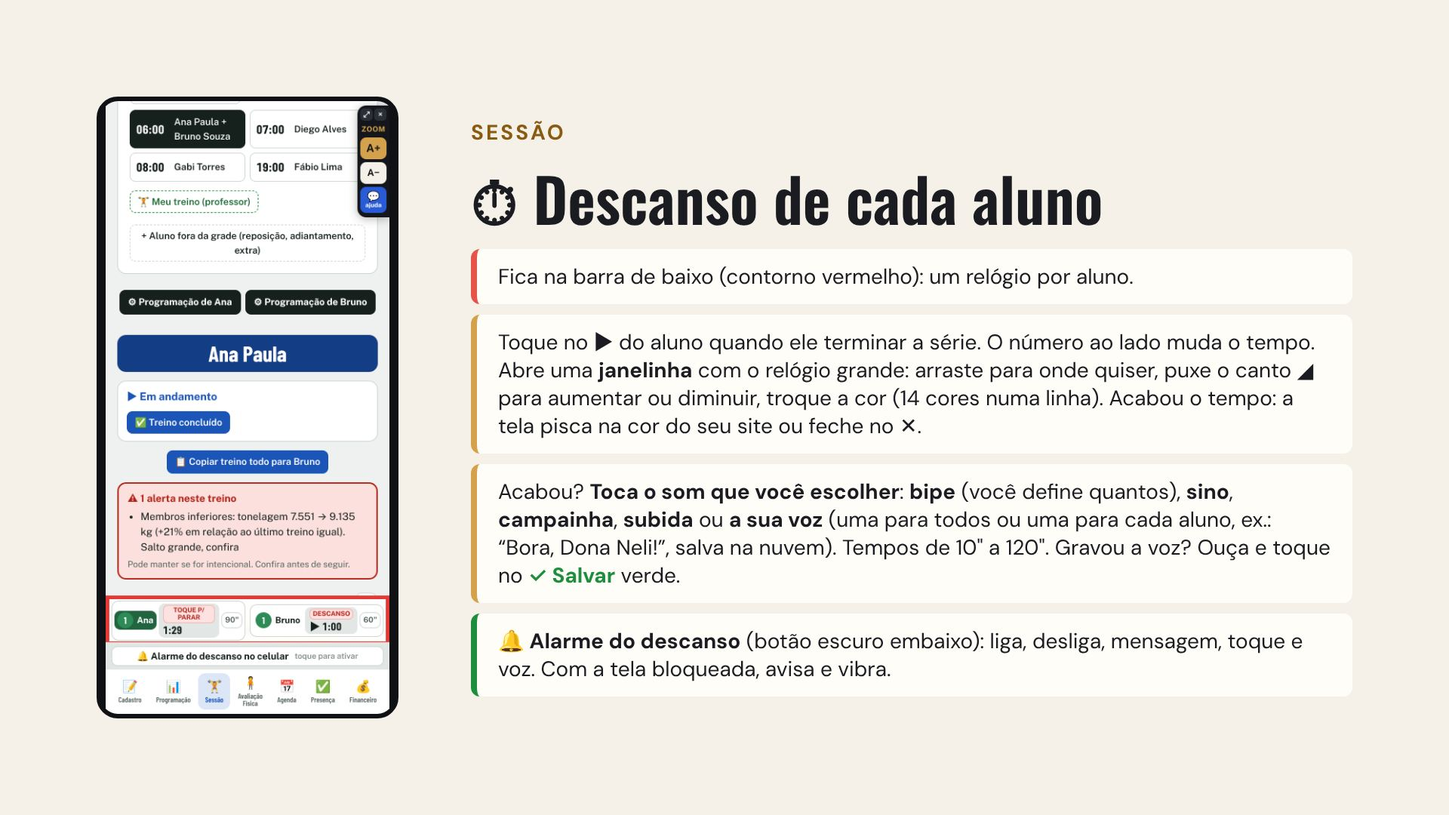
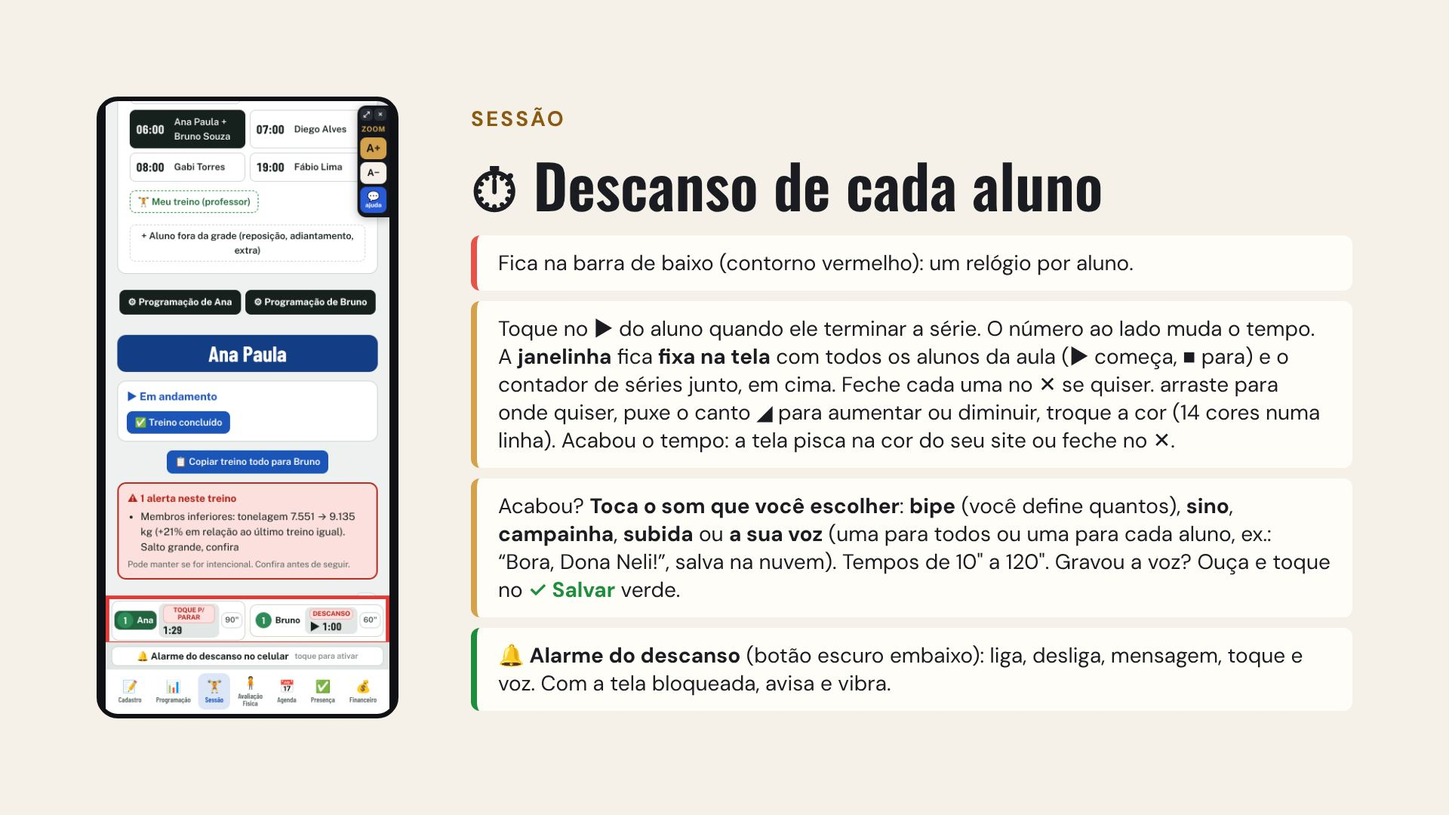
Descanso e contador de séries fixos na tela: todos os alunos da aula com ▶/■, fecha cada um no ✕ e fica lembrado; slides atualizados
Claude-Session: https://claude.ai/code/session_01ExiWmKxJX9TgZX8HbSZjPY

diff --git a/index.html b/index.html
@@ -1,4 +1,4 @@
-<!doctype html><html><head><meta charset=utf8><link rel="manifest" href="manifest.webmanifest"><meta name="theme-color" content="#0f1115"><link rel="icon" href="icon-192.png"><link rel="apple-touch-icon" href="icon-192.png"><meta name="apple-mobile-web-app-capable" content="yes"><meta name="mobile-web-app-capable" content="yes"><meta name="apple-mobile-web-app-title" content="Rotina do Personal"><meta name=viewport content="width=device-width,initial-scale=1,viewport-fit=cover"><style>:root{color-scheme:light;box-sizing:border-box;padding-top:env(safe-area-inset-top,0px);padding-bottom:env(safe-area-inset-bottom,0px)}html{scroll-padding-top:env(safe-area-inset-top,0px)}body{margin:0;padding:0;font:14px -apple-system,BlinkMacSystemFont,sans-serif;background:#faf9f5;color:#141413}img{max-width:100%}[hidden]:not([hidden=until-found i]){display:none!important}</style><script>window.RP_BUILD="1793269921";
+<!doctype html><html><head><meta charset=utf8><link rel="manifest" href="manifest.webmanifest"><meta name="theme-color" content="#0f1115"><link rel="icon" href="icon-192.png"><link rel="apple-touch-icon" href="icon-192.png"><meta name="apple-mobile-web-app-capable" content="yes"><meta name="mobile-web-app-capable" content="yes"><meta name="apple-mobile-web-app-title" content="Rotina do Personal"><meta name=viewport content="width=device-width,initial-scale=1,viewport-fit=cover"><style>:root{color-scheme:light;box-sizing:border-box;padding-top:env(safe-area-inset-top,0px);padding-bottom:env(safe-area-inset-bottom,0px)}html{scroll-padding-top:env(safe-area-inset-top,0px)}body{margin:0;padding:0;font:14px -apple-system,BlinkMacSystemFont,sans-serif;background:#faf9f5;color:#141413}img{max-width:100%}[hidden]:not([hidden=until-found i]){display:none!important}</style><script>window.RP_BUILD="1793270514";
 (function(){ var K="rp_upd_try";
   var T0=Date.now(); function chk(){ try{ fetch(location.pathname+"?v="+Date.now(),{cache:"no-store"}).then(function(r){ return r.text(); }).then(function(t){ var m=t.match(/window\.RP_BUILD="(\d+)"/); if(!m||m[1]===window.RP_BUILD) return;
       var tried=sessionStorage.getItem(K); if(Date.now()-T0<15000&&tried!==m[1]){ sessionStorage.setItem(K,m[1]); go(m[1]); return; } showUpd(m[1]); }).catch(function(){}); }catch(e){} }
@@ -333,7 +333,7 @@ input.mini{padding:5px;text-align:center}
 .xb-sug{white-space:nowrap}.xband .xb-ex2{grid-column:2 / -1;display:flex!important;gap:6px;justify-content:center;align-items:center;flex-wrap:wrap}.xb-ex2 .xb-sug{font-size:11px!important;padding:3px 9px!important}.xrepw{display:flex;margin:1px 0 0 4px}.xrepw:empty{display:none}.xrepw .xrep{font-size:10px!important;padding:1px 8px!important}.repask{position:relative;margin:10px 0 14px;padding:14px;border:2.5px solid var(--accent);border-radius:16px;background:var(--accent-soft);display:grid;gap:8px;text-align:center}.repask:after{content:"";position:absolute;left:50%;bottom:-12px;transform:translateX(-50%);border:10px solid transparent;border-top-color:var(--accent);border-bottom:0}
 #repPop[hidden]{display:none}.repscrim{position:fixed;inset:0;background:rgba(0,0,0,.45);z-index:9000}.reppop{position:fixed!important;left:50%;top:50%;transform:translate(-50%,-50%);width:min(560px,calc(100vw - 24px));max-height:calc(100vh - 40px);overflow:auto;margin:0!important;z-index:9001;background:var(--surface)!important;box-shadow:0 12px 40px rgba(0,0,0,.35);animation:reppop .22s ease-out}.reppop:after{display:none}@keyframes reppop{from{opacity:0;transform:translate(-50%,-46%)}to{opacity:1;transform:translate(-50%,-50%)}}.repx{position:absolute;right:8px;top:8px}.repwarn{background:var(--warn-soft);color:var(--fg);border-radius:10px;padding:6px 8px;font-size:13.5px}.repmode{display:flex;flex-wrap:wrap;gap:6px;justify-content:center;align-items:center;font-size:13px;font-weight:700;color:var(--muted);border-top:1px dashed var(--line);padding-top:8px}
 .xband.xband3{display:block!important}.xb3{display:flex!important;flex-wrap:nowrap!important;gap:5px!important;padding:5px 6px!important;justify-content:center;border-left:0!important}.xb3 .xb-sug{flex:1 1 0;min-width:0;max-width:200px;white-space:normal!important;line-height:1.15;font-size:10.5px!important;padding:4px 6px!important;text-align:center}
-:is(#restWin,#serWin){--rwk:1;position:fixed;right:22px;bottom:190px;z-index:8500;min-width:calc(150px*var(--rwk));max-width:calc(300px*var(--rwk));background:var(--rwbg);color:var(--rwfg);border-radius:16px;box-shadow:0 8px 28px rgba(0,0,0,.35);border:2px solid rgba(127,127,127,.45);padding:6px 10px 8px;touch-action:none;user-select:none;cursor:grab}#restWin[hidden],#serWin[hidden]{display:none}:is(#restWin,#serWin).drag{opacity:.85;cursor:grabbing}:is(#restWin,#serWin) .rwh{display:flex;align-items:center;gap:6px;font-size:11px;font-weight:800;text-transform:uppercase;letter-spacing:.06em;opacity:.85}:is(#restWin,#serWin) .rwh span:nth-child(2){flex:1}:is(#restWin,#serWin) .rwg{font-size:15px}:is(#restWin,#serWin) button{background:none;border:0;color:inherit;cursor:pointer;font:inherit}:is(#restWin,#serWin) .rwx{font-size:16px;padding:2px 4px}:is(#restWin,#serWin) .rwr{display:flex;align-items:center;gap:6px;margin-top:2px}:is(#restWin,#serWin) .rwn{font-size:calc(13px*var(--rwk));font-weight:700;flex:1;min-width:0;overflow:hidden;text-overflow:ellipsis;white-space:nowrap}:is(#restWin,#serWin) .rwt{font-size:calc(34px*var(--rwk));font-weight:900;line-height:1.05}:is(#restWin,#serWin) .rwr.go .rwt{animation:rwpulse .6s ease-in-out infinite alternate}@keyframes rwpulse{to{opacity:.35}}:is(#restWin,#serWin) .rwrs{position:absolute;right:-6px;bottom:-6px;width:30px;height:30px;border-radius:0 0 14px 0;cursor:nwse-resize;touch-action:none;background:linear-gradient(135deg,transparent 0 46%,var(--rwfg) 46% 52%,transparent 52% 62%,var(--rwfg) 62% 68%,transparent 68% 78%,var(--rwfg) 78% 84%,transparent 84%);opacity:.75;filter:drop-shadow(0 0 1px rgba(0,0,0,.5))}:is(#restWin,#serWin).rsz{outline:2px dashed var(--rwfg);outline-offset:3px}:is(#restWin,#serWin) .rwa{position:absolute;top:50%;transform:translateY(-50%);width:22px;height:44px;border-radius:10px!important;background:var(--rwbg)!important;border:2px solid rgba(127,127,127,.55)!important;font-size:12px!important;display:flex;align-items:center;justify-content:center;box-shadow:0 2px 8px rgba(0,0,0,.25)}:is(#restWin,#serWin) .rwa-l{left:-16px}:is(#restWin,#serWin) .rwa-r{right:-16px}:is(#restWin,#serWin) .rws{font-size:calc(16px*var(--rwk));opacity:.8}:is(#restWin,#serWin) .rwc{display:flex;flex-wrap:nowrap;gap:4px;justify-content:center;margin-top:6px;overflow-x:auto;max-width:100%;scrollbar-width:none}:is(#restWin,#serWin) .rwc button{flex:0 0 auto;width:16px;height:16px;border-radius:50%;border:2px solid rgba(127,127,127,.6);padding:0}:is(#restWin,#serWin) .rwc button.on{outline:2px solid var(--rwfg);outline-offset:2px}
+:is(#restWin,#serWin){--rwk:1;position:fixed;right:22px;bottom:190px;z-index:8500;min-width:calc(150px*var(--rwk));max-width:calc(300px*var(--rwk));background:var(--rwbg);color:var(--rwfg);border-radius:16px;box-shadow:0 8px 28px rgba(0,0,0,.35);border:2px solid rgba(127,127,127,.45);padding:6px 10px 8px;touch-action:none;user-select:none;cursor:grab}#restWin[hidden],#serWin[hidden]{display:none}:is(#restWin,#serWin).drag{opacity:.85;cursor:grabbing}:is(#restWin,#serWin) .rwh{display:flex;align-items:center;gap:6px;font-size:11px;font-weight:800;text-transform:uppercase;letter-spacing:.06em;opacity:.85}:is(#restWin,#serWin) .rwh span:nth-child(2){flex:1}:is(#restWin,#serWin) .rwg{font-size:15px}:is(#restWin,#serWin) button{background:none;border:0;color:inherit;cursor:pointer;font:inherit}body.tab-sessao #restWin{bottom:calc(300px + env(safe-area-inset-bottom,0px))}:is(#restWin,#serWin) .rwidle .rwt{opacity:.75}#restWin .rwgo{font-size:calc(22px*var(--rwk))!important;width:calc(40px*var(--rwk));height:calc(40px*var(--rwk));border-radius:50%!important;border:2px solid currentColor!important;display:flex;align-items:center;justify-content:center}:is(#restWin,#serWin) .rwx{font-size:16px;padding:2px 4px}:is(#restWin,#serWin) .rwr{display:flex;align-items:center;gap:6px;margin-top:2px}:is(#restWin,#serWin) .rwn{font-size:calc(13px*var(--rwk));font-weight:700;flex:1;min-width:0;overflow:hidden;text-overflow:ellipsis;white-space:nowrap}:is(#restWin,#serWin) .rwt{font-size:calc(34px*var(--rwk));font-weight:900;line-height:1.05}:is(#restWin,#serWin) .rwr.go .rwt{animation:rwpulse .6s ease-in-out infinite alternate}@keyframes rwpulse{to{opacity:.35}}:is(#restWin,#serWin) .rwrs{position:absolute;right:-6px;bottom:-6px;width:30px;height:30px;border-radius:0 0 14px 0;cursor:nwse-resize;touch-action:none;background:linear-gradient(135deg,transparent 0 46%,var(--rwfg) 46% 52%,transparent 52% 62%,var(--rwfg) 62% 68%,transparent 68% 78%,var(--rwfg) 78% 84%,transparent 84%);opacity:.75;filter:drop-shadow(0 0 1px rgba(0,0,0,.5))}:is(#restWin,#serWin).rsz{outline:2px dashed var(--rwfg);outline-offset:3px}:is(#restWin,#serWin) .rwa{position:absolute;top:50%;transform:translateY(-50%);width:22px;height:44px;border-radius:10px!important;background:var(--rwbg)!important;border:2px solid rgba(127,127,127,.55)!important;font-size:12px!important;display:flex;align-items:center;justify-content:center;box-shadow:0 2px 8px rgba(0,0,0,.25)}:is(#restWin,#serWin) .rwa-l{left:-16px}:is(#restWin,#serWin) .rwa-r{right:-16px}:is(#restWin,#serWin) .rws{font-size:calc(16px*var(--rwk));opacity:.8}:is(#restWin,#serWin) .rwc{display:flex;flex-wrap:nowrap;gap:4px;justify-content:center;margin-top:6px;overflow-x:auto;max-width:100%;scrollbar-width:none}:is(#restWin,#serWin) .rwc button{flex:0 0 auto;width:16px;height:16px;border-radius:50%;border:2px solid rgba(127,127,127,.6);padding:0}:is(#restWin,#serWin) .rwc button.on{outline:2px solid var(--rwfg);outline-offset:2px}
 .sndnow{display:flex;align-items:center;justify-content:space-between;gap:8px;background:var(--ok-soft);border:2px solid var(--ok);border-radius:12px;padding:8px 10px}.sndnow span{display:grid;font-size:12px;color:var(--muted);font-weight:700}.sndnow b{font-size:16px;color:var(--fg)}.sndpl{font-style:normal;font-size:10px;opacity:.7;margin-left:2px}
 .tdays{margin:-2px 0 10px}.tdays .daychips{margin:0}.unit.xrepu{border:2.5px solid #E8710A!important;background:#FFF1E3!important;color:#5a2d00}.unit.xrepu.on{background:#E8710A!important;color:#fff}.unit.xrepu .xtag{background:#E8710A;color:#fff}.dyrep{position:absolute;top:-8px;right:-4px;font-style:normal;font-size:11px;background:#E8710A;color:#fff;border-radius:999px;padding:0 4px;line-height:16px}.daychips button{position:relative}
 .rep-2c{display:grid;gap:10px;align-items:start}.rep-colB{display:grid;gap:10px}.repcard.cap{width:680px!important;max-width:none!important}.repcard.cap .rep-2c:not(.one){grid-template-columns:1.15fr 1fr}@media (min-width:640px){.rep-2c:not(.one){grid-template-columns:1.15fr 1fr}}
@@ -3595,7 +3595,8 @@ setInterval(restTick,250);
 const RW_COR={preto:["#111418","#fff"],marrom:["#6D4C41","#fff"],cinza:["#6B7280","#fff"],roxo:["#7B3FC4","#fff"],azul:["#1E63D6","#fff"],verde:["#1E8E3E","#fff"],vermelho:["#D32F2F","#fff"],turquesa:["#00A99D","#fff"],rosa:["#EC407A","#fff"],laranja:["#F57C00","#fff"],azulclaro:["#9FD3FF","#111"],rosaclaro:["#F8BBD0","#111"],amarelo:["#FFE45C","#111"],branco:["#FFFFFF","#111"]};
 const rwOn=()=>(S.brand||{}).restWin!==false; const rwCor=()=>{ const b=S.brand||{}; return b.restWinCor==="x"&&b.restWinX? "x" : RW_COR[b.restWinCor]? b.restWinCor : "preto"; };
 const rwPair=(k,x)=> k==="x"&&x? [x,cpInk(x)] : RW_COR[k]||RW_COR.preto;
-let RW_X=false, RW_DRAG=null, RW_RS=null;
+let RW_X=(()=>{ try{ return localStorage.getItem("rp_rw_x")==="1"; }catch(_){ return false; } })(), RW_DRAG=null, RW_RS=null;
+const rwXset=v=>{ RW_X=v; try{ localStorage.setItem("rp_rw_x",v?"1":"0"); }catch(_){} };
 function rwSz(){ try{ return parseFloat(localStorage.getItem("rp_rw_sz"))||1; }catch(_){ return 1; } }
 function rwPos(){ try{ return JSON.parse(localStorage.getItem("rp_rw_pos")||"null"); }catch(_){ return null; } }
 function rwEl(){ let el=document.getElementById("restWin"); if(!el){ el=document.createElement("div"); el.id="restWin"; el.setAttribute("role","timer"); document.body.appendChild(el);
@@ -3604,22 +3605,23 @@ function rwEl(){ let el=document.getElementById("restWin"); if(!el){ el=document
     const end=()=>{ if(RW_RS){ RW_RS=null; el.classList.remove("rsz"); const z=parseFloat(document.body.style.zoom)||1; const L=parseFloat(el.style.left), T=parseFloat(el.style.top); if(!isNaN(L)){ el.style.left=Math.max(4,Math.min(innerWidth/z-el.offsetWidth-4,L))+"px"; el.style.top=Math.max(4,Math.min(innerHeight/z-el.offsetHeight-4,T))+"px"; } return; } if(!RW_DRAG) return; RW_DRAG=null; el.classList.remove("drag"); try{ localStorage.setItem("rp_rw_pos",JSON.stringify({x:parseFloat(el.style.left),y:parseFloat(el.style.top)})); }catch(_){} };
     el.addEventListener("pointerup",end); el.addEventListener("pointercancel",end);
     el.addEventListener("click",e=>{ const b=e.target.closest("button"); if(!b) return;
-      if(b.hasAttribute("data-rwx")){ RW_X=true; rwRender(); return; }
+      if(b.hasAttribute("data-rwx")){ rwXset(true); rwRender(); try{ renderTurnbar(); }catch(_){} toast("Janelinha fechada. Toque no ▶ do descanso lá embaixo para abrir de novo."); return; }
       if(b.dataset.rwsz){ const v=Math.max(0.7,Math.min(2.2,Math.round((rwSz()+(+b.dataset.rwsz)*0.15)*100)/100)); try{ localStorage.setItem("rp_rw_sz",v); }catch(_){} el.style.setProperty("--rwk",v);
         const z=parseFloat(document.body.style.zoom)||1; const L=parseFloat(el.style.left), T=parseFloat(el.style.top); if(!isNaN(L)){ el.style.left=Math.max(4,Math.min(innerWidth/z-el.offsetWidth-4,L))+"px"; el.style.top=Math.max(4,Math.min(innerHeight/z-el.offsetHeight-4,T))+"px"; } return; }
       if(b.dataset.rwcor){ S.brand=Object.assign({},S.brand||{},{restWinCor:b.dataset.rwcor}); save(); rwRender(); return; }
+      if(b.dataset.rwgo){ const id=b.dataset.rwgo, m=S.students.find(x=>x.id===id); try{ AC=AC||new (window.AudioContext||window.webkitAudioContext)(); if(AC.state==="suspended") AC.resume(); }catch(_){} REST[id]=Date.now()+restSec(m)*1000; delete FIRED[id]; keepAwake(); autoPres(id); renderTurnbar(); rwRender(); return; }
       if(b.dataset.rwstop){ const id=b.dataset.rwstop; delete REST[id]; delete FIRED[id]; renderTurnbar(); rwRender(); } });
     const p=rwPos(); if(p){ el.style.left=Math.max(4,Math.min(innerWidth-170,p.x))+"px"; el.style.top=Math.max(4,Math.min(innerHeight-120,p.y))+"px"; el.style.right="auto"; el.style.bottom="auto"; } }
   return el; }
-function rwRender(){ const ids=Object.keys(REST); const el=rwEl(); const show=rwOn()&&!RW_X&&ids.length>0&&CUR_TAB==="sessao";
+function rwRender(){ let ms=[]; try{ ms=sesMembers(); }catch(_){} const ids=[...new Set(ms.map(m=>m.id).concat(Object.keys(REST)))]; const el=rwEl(); const show=rwOn()&&!RW_X&&ids.length>0&&CUR_TAB==="sessao";
   el.hidden=!show; if(!show) return; const [bg,fg]=rwPair(rwCor(),(S.brand||{}).restWinX); el.style.setProperty("--rwbg",bg); el.style.setProperty("--rwfg",fg); el.style.setProperty("--rwk",rwSz());
-  const rows=ids.map(id=>{ const m=S.students.find(x=>x.id===id); const left=REST[id]-Date.now(); return `<div class="rwr ${left<=0?"go":""}"><span class="rwn">${esc(m?first(m.name):"")}</span><b class="rwt num" data-rwt="${id}">${left>0?fmtRest(left):"Bora!"}</b><button class="rws" data-rwstop="${id}" aria-label="Parar o descanso">⏹</button></div>`; }).join("");
-  const key=ids.join("|")+"|"+rwCor(); if(el.dataset.k===key){ ids.forEach(id=>{ const t=el.querySelector(`[data-rwt="${id}"]`); const left=REST[id]-Date.now(); if(t){ t.textContent=left>0?fmtRest(left):"Bora!"; t.parentNode.classList.toggle("go",left<=0); } }); return; }
-  el.dataset.k=key;
+  const rows=ids.map(id=>{ const m=S.students.find(x=>x.id===id); if(!REST[id]) return `<div class="rwr rwidle"><span class="rwn">${esc(m?first(m.name):"")}</span><b class="rwt num">${fmtRest((m?restSec(m):60)*1000)}</b><button class="rws rwgo" data-rwgo="${id}" aria-label="Começar o descanso">▶</button></div>`; const left=REST[id]-Date.now(); return `<div class="rwr ${left<=0?"go":""}"><span class="rwn">${esc(m?first(m.name):"")}</span><b class="rwt num" data-rwt="${id}">${left>0?fmtRest(left):"Bora!"}</b><button class="rws rwgo" data-rwstop="${id}" aria-label="Parar o descanso">■</button></div>`; }).join("");
+  const key=ids.map(id=>id+(REST[id]?"r":"i")+(REST[id]?"":(S.students.find(x=>x.id===id)||{}).rest)).join("|")+"|"+rwCor(); if(el.dataset.k===key){ ids.forEach(id=>{ if(!REST[id]) return; const t=el.querySelector(`[data-rwt="${id}"]`); const left=REST[id]-Date.now(); if(t){ t.textContent=left>0?fmtRest(left):"Bora!"; t.parentNode.classList.toggle("go",left<=0); } }); return; }
+  el.dataset.k=key; requestAnimationFrame(()=>{ try{ scPlace(); }catch(_){} });
   el.innerHTML=`<div class="rwh"><span class="rwg" aria-hidden="true">⠿</span><span>Descanso</span><button class="rwx" data-rwx aria-label="Fechar">✕</button></div>${rows}<span class="rwrs" aria-label="Arraste o canto para aumentar ou diminuir" title="Arraste para aumentar ou diminuir"></span><div class="rwc">${Object.keys(RW_COR).map(k=>`<button data-rwcor="${k}" class="${rwCor()===k?"on":""}" style="background:${RW_COR[k][0]}" aria-label="Cor ${k}"></button>`).join("")}<button class="rwplus ${rwCor()==="x"?"on":""}" data-cp="rw" aria-label="Outra cor e opacidade">＋</button></div>`; }
 setInterval(rwRender,250);
 /* Contador de séries: janelinha opcional, arrastável, com cores; um contador por aluno da aula */
-let SC_OPEN=false, SC_DRAG=null, SC_RS=null; const SCN={};
+let SC_OPEN=(()=>{ try{ return localStorage.getItem("rp_sc_open")!=="0"; }catch(_){ return true; } })(), SC_DRAG=null, SC_RS=null; const SCN={};
 const scKey=id=>"rp_sc_"+sesDateOf()+"_"+id;
 const scGet=id=>{ if(SCN[id]!=null) return SCN[id]; let v=0; try{ v=+localStorage.getItem(scKey(id))||0; }catch(_){} return SCN[id]=v; };
 const scSet=(id,v)=>{ SCN[id]=Math.max(0,v); try{ localStorage.setItem(scKey(id),SCN[id]); }catch(_){} };
@@ -3635,7 +3637,7 @@ function scEl(){ let el=document.getElementById("serWin"); if(el) return el; el=
   const end=()=>{ if(SC_RS){ SC_RS=null; return; } if(!SC_DRAG) return; SC_DRAG=null; el.classList.remove("drag"); try{ localStorage.setItem("rp_sc_pos",JSON.stringify({x:parseFloat(el.style.left),y:parseFloat(el.style.top)})); }catch(_){} };
   el.addEventListener("pointerup",end); el.addEventListener("pointercancel",end);
   el.addEventListener("click",e=>{ const b=e.target.closest("button"); if(!b) return;
-    if(b.hasAttribute("data-scx")){ SC_OPEN=false; scRender(); try{ renderTurnbar(); }catch(_){} return; }
+    if(b.hasAttribute("data-scx")){ SC_OPEN=false; try{ localStorage.setItem("rp_sc_open","0"); }catch(_){} scRender(); try{ renderTurnbar(); }catch(_){} return; }
     if(b.dataset.sccor){ S.brand=Object.assign({},S.brand||{},{scCor:b.dataset.sccor}); save(); el.dataset.k=""; scRender(); return; }
     if(b.dataset.sctot){ scTotSet(scTot()+(+b.dataset.sctot)); scRender(); return; }
     if(b.dataset.scchip){ const [id,i]=b.dataset.scchip.split("|"); const n=+i; scSet(id, scGet(id)>=n? n-1 : n); try{ navigator.vibrate&&navigator.vibrate(20); }catch(_){} scRender(); return; }
@@ -3647,8 +3649,10 @@ function scEl(){ let el=document.getElementById("serWin"); if(el) return el; el=
   return el; }
 function scRender(){ const el=scEl(); let ms=[]; try{ ms=sesMembers(); }catch(_){} const show=SC_OPEN&&CUR_TAB==="sessao"&&ms.length>0; el.hidden=!show; if(!show) return;
   const [bg,fg]=rwPair(scCor(),(S.brand||{}).scX); el.style.setProperty("--rwbg",bg); el.style.setProperty("--rwfg",fg); el.style.setProperty("--rwk",scSz());
-  el.innerHTML=`<div class="rwh"><span class="rwg" aria-hidden="true">⠿</span><span>Séries <span class="sctot"><button data-sctot="-1" aria-label="Menos séries">−</button><input type="number" inputmode="numeric" min="1" max="12" data-sctotin value="${scTot()}" aria-label="Quantidade de séries"><button data-sctot="1" aria-label="Mais séries">+</button></span></span><button data-sczero title="Zerar todos" aria-label="Zerar">↺</button><button class="rwx" data-scx aria-label="Fechar">✕</button></div>${ms.map(m=>`<div class="rwr scr"><span class="rwn scnm">${esc(first(m.name))}<span class="scchips">${Array.from({length:scTot()},(_,i)=>`<button class="scchip ${scGet(m.id)>i?"x":""}" data-scchip="${m.id}|${i+1}" aria-label="Série ${i+1}">${i+1}</button>`).join("")}</span></span><button class="scb" data-scsub="${m.id}" aria-label="Menos uma série">−</button><button class="rwt num scn" data-scadd="${m.id}" aria-label="Mais uma série">${scGet(m.id)}</button><button class="scb" data-scadd="${m.id}" aria-label="Mais uma série">+</button></div>`).join("")}<span class="rwrs" title="Arraste para aumentar ou diminuir"></span><div class="rwc">${Object.keys(RW_COR).map(k=>`<button data-sccor="${k}" class="${scCor()===k?"on":""}" style="background:${RW_COR[k][0]}" aria-label="Cor ${k}"></button>`).join("")}<button class="rwplus ${scCor()==="x"?"on":""}" data-cp="sc" aria-label="Outra cor e opacidade">＋</button></div>`; }
-document.addEventListener("click",e=>{ const b=e.target.closest&&e.target.closest("[data-scopen]"); if(!b) return; SC_OPEN=!SC_OPEN; scRender(); try{ renderTurnbar(); }catch(_){} if(SC_OPEN) toast("Toque no número ou no + a cada série"); });
+  el.innerHTML=`<div class="rwh"><span class="rwg" aria-hidden="true">⠿</span><span>Séries <span class="sctot"><button data-sctot="-1" aria-label="Menos séries">−</button><input type="number" inputmode="numeric" min="1" max="12" data-sctotin value="${scTot()}" aria-label="Quantidade de séries"><button data-sctot="1" aria-label="Mais séries">+</button></span></span><button data-sczero title="Zerar todos" aria-label="Zerar">↺</button><button class="rwx" data-scx aria-label="Fechar">✕</button></div>${ms.map(m=>`<div class="rwr scr"><span class="rwn scnm">${esc(first(m.name))}<span class="scchips">${Array.from({length:scTot()},(_,i)=>`<button class="scchip ${scGet(m.id)>i?"x":""}" data-scchip="${m.id}|${i+1}" aria-label="Série ${i+1}">${i+1}</button>`).join("")}</span></span><button class="scb" data-scsub="${m.id}" aria-label="Menos uma série">−</button><button class="rwt num scn" data-scadd="${m.id}" aria-label="Mais uma série">${scGet(m.id)}</button><button class="scb" data-scadd="${m.id}" aria-label="Mais uma série">+</button></div>`).join("")}<span class="rwrs" title="Arraste para aumentar ou diminuir"></span><div class="rwc">${Object.keys(RW_COR).map(k=>`<button data-sccor="${k}" class="${scCor()===k?"on":""}" style="background:${RW_COR[k][0]}" aria-label="Cor ${k}"></button>`).join("")}<button class="rwplus ${scCor()==="x"?"on":""}" data-cp="sc" aria-label="Outra cor e opacidade">＋</button></div>`; requestAnimationFrame(scPlace); }
+function scPlace(){ const el=document.getElementById("serWin"), rw=document.getElementById("restWin"); if(!el||el.hidden) return; let sp=null; try{ sp=localStorage.getItem("rp_sc_pos"); }catch(_){} if(sp) return;
+  if(rw&&!rw.hidden){ const r=rw.getBoundingClientRect(), z=parseFloat(document.body.style.zoom)||1; el.style.top=Math.max(4,(r.top/z)-el.offsetHeight-8)+"px"; el.style.left=Math.max(4,r.right/z-el.offsetWidth)+"px"; el.style.right="auto"; el.style.bottom="auto"; } }
+document.addEventListener("click",e=>{ const b=e.target.closest&&e.target.closest("[data-scopen]"); if(!b) return; SC_OPEN=!SC_OPEN; try{ localStorage.setItem("rp_sc_open",SC_OPEN?"1":"0"); }catch(_){} scRender(); try{ renderTurnbar(); }catch(_){} if(SC_OPEN) toast("Toque no número ou no + a cada série"); });
 let ALARM=[], alarmT=null;
 const ALM_DEF="Bora para a próxima série!";
 const almMsg=()=>String((S.brand||{}).alarmMsg||"").trim()||ALM_DEF;
@@ -4937,7 +4941,7 @@ document.addEventListener("click",e=>{ const t=e.target.closest&&e.target.closes
   else if(d.vwx!=null) VW=null; else if(d.vwday){ if(VW.ltr){ VW.ltr=""; VW.days=[]; } VW.days= VW.days.includes(d.vwday)? VW.days.filter(x=>x!==d.vwday) : VW.days.concat([d.vwday]); } else if(d.vwall!=null){ VW.ltr=""; VW.days= DAYS.every(x=>VW.days.includes(x))? [S.day] : DAYS.slice(); } else if(d.vwwk){ const L=wkSorted(); const i=L.findIndex(x=>x.id===VW.wid); const n=L[i+(+d.vwwk)]; if(n) VW.wid=n.id; } else if(d.vwltr!=null) VW.ltr= VW.ltr===d.vwltr? "" : d.vwltr; else if(d.vwz){ VW.z=Math.max(.8,Math.min(1.8,Math.round((VW.z+(+d.vwz)*.15)*100)/100)); try{ localStorage.setItem("rp_vwz",VW.z); }catch(_){} }
   vwRender(); });
 document.addEventListener("click",e=>{ const b=e.target.closest&&e.target.closest("[data-progpg]"); if(!b) return; S.active=b.dataset.progpg; save(); show("semana"); });
-function renderSessao(){ try{ applyStuCor(); }catch(_){} renderSessao0(); requestAnimationFrame(()=>fitNames()); setTimeout(repAuto,120); }
+function renderSessao(){ try{ applyStuCor(); }catch(_){} setTimeout(()=>{ try{ scRender(); rwRender(); }catch(_){} },0); renderSessao0(); requestAnimationFrame(()=>fitNames()); setTimeout(repAuto,120); }
 let sesProgOpen=null;
 function sesProgHTML(st){ const ms0=sesMembers(); if(!ms0.length) return ""; const ms=[ms0.includes(st)?st:ms0[0]];
   const btns=ms.map(m=>`<button type="button" class="progtop" data-progpg="${m.id}"><span class="pt-ic">📊</span><span><b>Programação do treino de ${esc(first(m.name))}</b><small>Estruturação do treino do seu aluno: fases, semanas, letras e divisão</small></span><span class="pt-ar">›</span></button>`).join("");
@@ -5297,7 +5301,7 @@ document.addEventListener("click",e=>{ const b=e.target.closest("#weektabs [data
 document.getElementById("turnbar").addEventListener("click",e=>{
   const r=e.target.closest("[data-rest]"); if(r){ const id=r.dataset.rest; const m=S.students.find(x=>x.id===id);
     try{ AC=AC||new (window.AudioContext||window.webkitAudioContext)(); if(AC.state==="suspended") AC.resume(); }catch(err){}
-    if(REST[id]){ delete REST[id]; delete FIRED[id]; } else { REST[id]=Date.now()+restSec(m)*1000; delete FIRED[id]; keepAwake(); autoPres(id); RW_X=false; }
+    if(REST[id]){ delete REST[id]; delete FIRED[id]; } else { REST[id]=Date.now()+restSec(m)*1000; delete FIRED[id]; keepAwake(); autoPres(id); rwXset(false); }
     renderTurnbar(); rwRender(); return; }
   const sd=e.target.closest("[data-setdur]"); if(sd){ const m=S.students.find(x=>x.id===durOpen); if(m){ m.rest=+sd.dataset.setdur; save(); } durOpen=null; renderTurnbar(); return; }
   const d=e.target.closest("[data-rdur]"); if(d){ durOpen= durOpen===d.dataset.rdur? null : d.dataset.rdur; renderTurnbar(); return; }
@@ -7505,7 +7509,7 @@ function show(tab,force){
   if(view==="pres"){ PRES.setMode(tab==="financeiro"?"fin":"pres"); const hb=document.getElementById("presHelp"); hb.dataset.help=tab==="agenda"?"presenca":tab; hb.textContent="ⓘ Entenda "+TAB_N[tab]; hb.hidden=tab==="agenda"; }
   if(view==="cadastro") renderCadastro();
   document.querySelectorAll(".tabs button").forEach(b=>b.setAttribute("aria-selected", b.dataset.tab===(tab==="semana"?"sessao":tab)));
-  try{ progTop(); }catch(_){} try{ applyStuCor(); }catch(_){}
+  try{ progTop(); }catch(_){} try{ applyStuCor(); }catch(_){} setTimeout(()=>{ try{ scRender(); }catch(_){} },0);
   try{ localStorage.setItem("sf_tab",tab); }catch(e){}
   renderTurnbar(); setTimeout(alrBadge,0);
   window.scrollTo(0,0);
